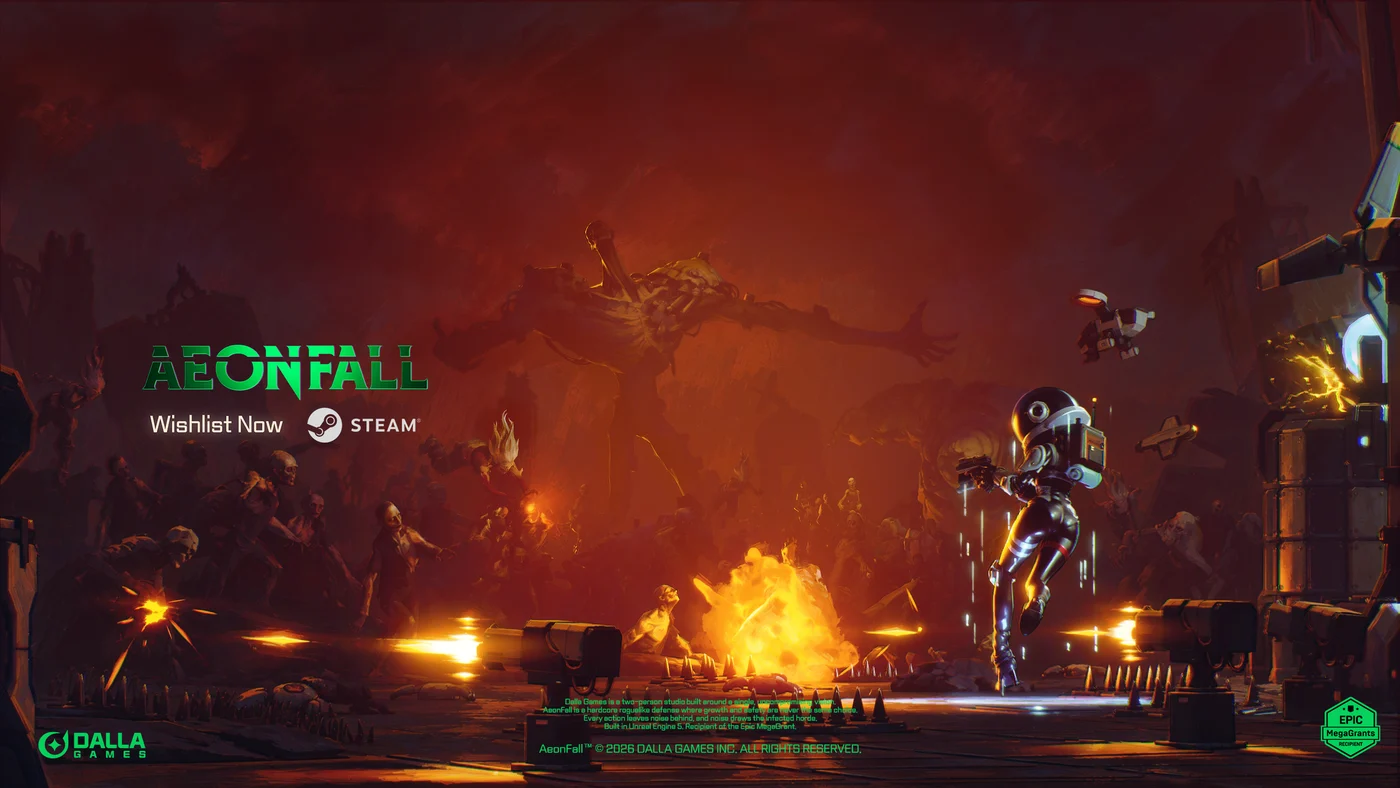
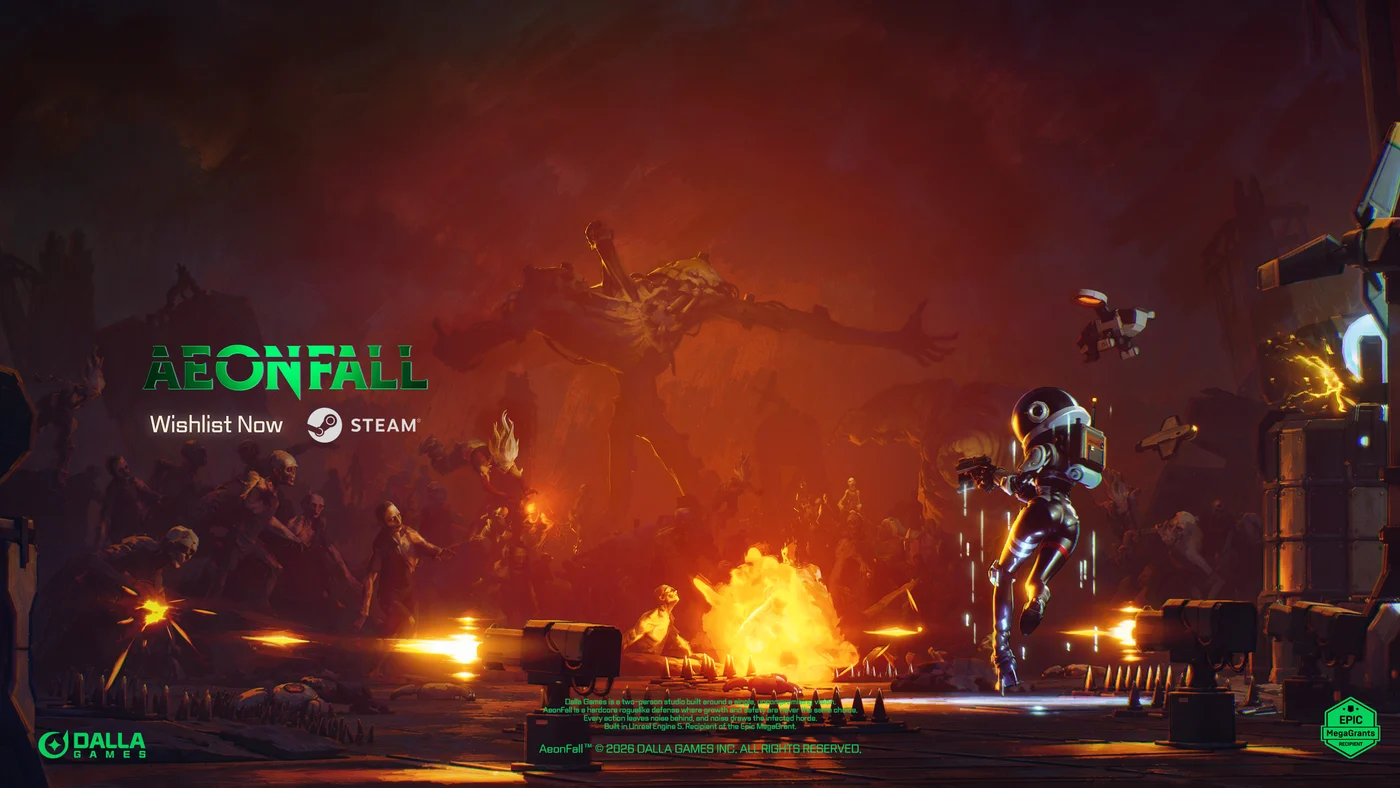
Refresh the trailer thumbnail with the revised key art

diff --git a/index.html b/index.html
@@ -230,30 +230,30 @@
 
   <!-- css/js 뒤의 ?v= 는 캐시 무효화용 버전. 파일을 고치면 이 숫자를 함께 올린다.
        (안 올리면 방문자 브라우저가 최대 10분간 옛 파일을 그대로 쓴다) -->
-  <link rel="stylesheet" href="style.css?v=17" />
+  <link rel="stylesheet" href="style.css?v=18" />
 
   <!-- 히어로 특수효과: 스캐너 스윕 리빌 (기존 코드와 분리된 추가 파일)
        JS는 head에서 동기 로드 — 첫 페인트 전에 스캔 커버를 씌워 깜빡임(FOUC)을 막는다. -->
-  <link rel="stylesheet" href="hero-fx.css?v=17" />
-  <script src="hero-fx.js?v=17"></script>
+  <link rel="stylesheet" href="hero-fx.css?v=18" />
+  <script src="hero-fx.js?v=18"></script>
 
   <!-- 히어로 배경 영상 레이어 -->
-  <link rel="stylesheet" href="hero-bg-swap.css?v=17" />
+  <link rel="stylesheet" href="hero-bg-swap.css?v=18" />
 
   <!-- 마우스 커서 잔상(트레일) 스타일 — 스크립트는 body 끝에서 로드 -->
-  <link rel="stylesheet" href="cursor-trail.css?v=17" />
+  <link rel="stylesheet" href="cursor-trail.css?v=18" />
 
   <!-- 다국어(로컬라이제이션) 국기 버튼 스타일 — 스크립트는 body 끝에서 로드 -->
-  <link rel="stylesheet" href="i18n.css?v=17" />
+  <link rel="stylesheet" href="i18n.css?v=18" />
 
   <!-- 추가 섹션(THE LOOP / FAQ) + 하단 소음 HUD 스타일 -->
-  <link rel="stylesheet" href="enhancements.css?v=17" />
+  <link rel="stylesheet" href="enhancements.css?v=18" />
 
   <!-- 방문자 분석(GA4) + 스팀 위시리스트 클릭 추적.
        head 에 두는 이유: 아주 짧게 머물다 나가는 방문도 집계되게 하기 위함.
        내부에서 gtag 를 async 로 불러오므로 렌더링은 막지 않는다.
        측정 ID 를 넣기 전까지는 아무 것도 하지 않는다 → analytics.js 상단 참고. -->
-  <script src="analytics.js?v=17"></script>
+  <script src="analytics.js?v=18"></script>
 </head>
 <body>
 
@@ -710,16 +710,16 @@
     </p>
   </footer>
 
-  <script src="script.js?v=17"></script>
+  <script src="script.js?v=18"></script>
   <!-- 합성 사운드 효과 (타이핑/CRT/스팀 버튼) — 기존 코드와 분리된 추가 파일 -->
-  <script src="sfx.js?v=17"></script>
+  <script src="sfx.js?v=18"></script>
   <!-- 마우스 커서 잔상(트레일) — 기존 코드와 분리된 추가 파일 -->
-  <script src="cursor-trail.js?v=17"></script>
+  <script src="cursor-trail.js?v=18"></script>
   <!-- 다국어(로컬라이제이션) — 국기 클릭 시 지정 영역 언어 전환 -->
-  <script src="i18n.js?v=17"></script>
+  <script src="i18n.js?v=18"></script>
   <!-- 소음 HUD + THE LOOP 소음 막대 — 기존 코드와 분리된 추가 파일 -->
-  <script src="noise-hud.js?v=17"></script>
+  <script src="noise-hud.js?v=18"></script>
   <!-- 히어로 배경 영상: 데스크톱에서만 내려받아 재생 -->
-  <script src="hero-video.js?v=17"></script>
+  <script src="hero-video.js?v=18"></script>
 </body>
 </html>

diff --git a/style.css b/style.css
@@ -726,7 +726,7 @@ label,
   padding: 0;
   border: 0;
   /* 썸네일: 트레일러 전용 이미지 (OUR GAMES 키아트와 분리) */
-  background: url("images/youtube.webp?v=2") center / cover no-repeat;
+  background: url("images/youtube.webp?v=3") center / cover no-repeat;
   display: flex;
   flex-direction: column;
   align-items: center;
